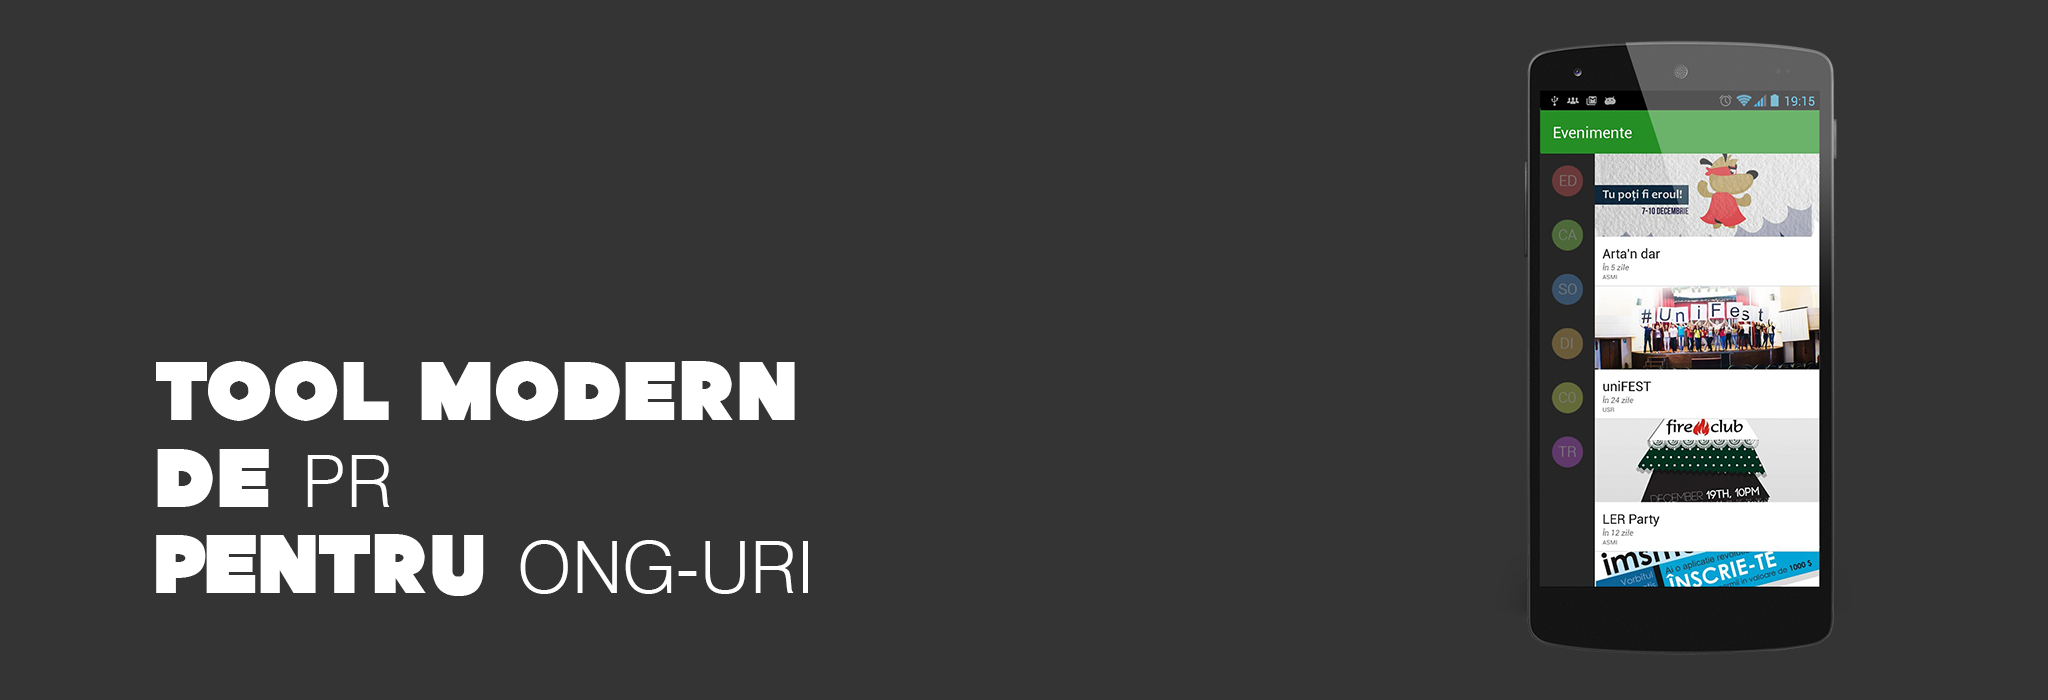
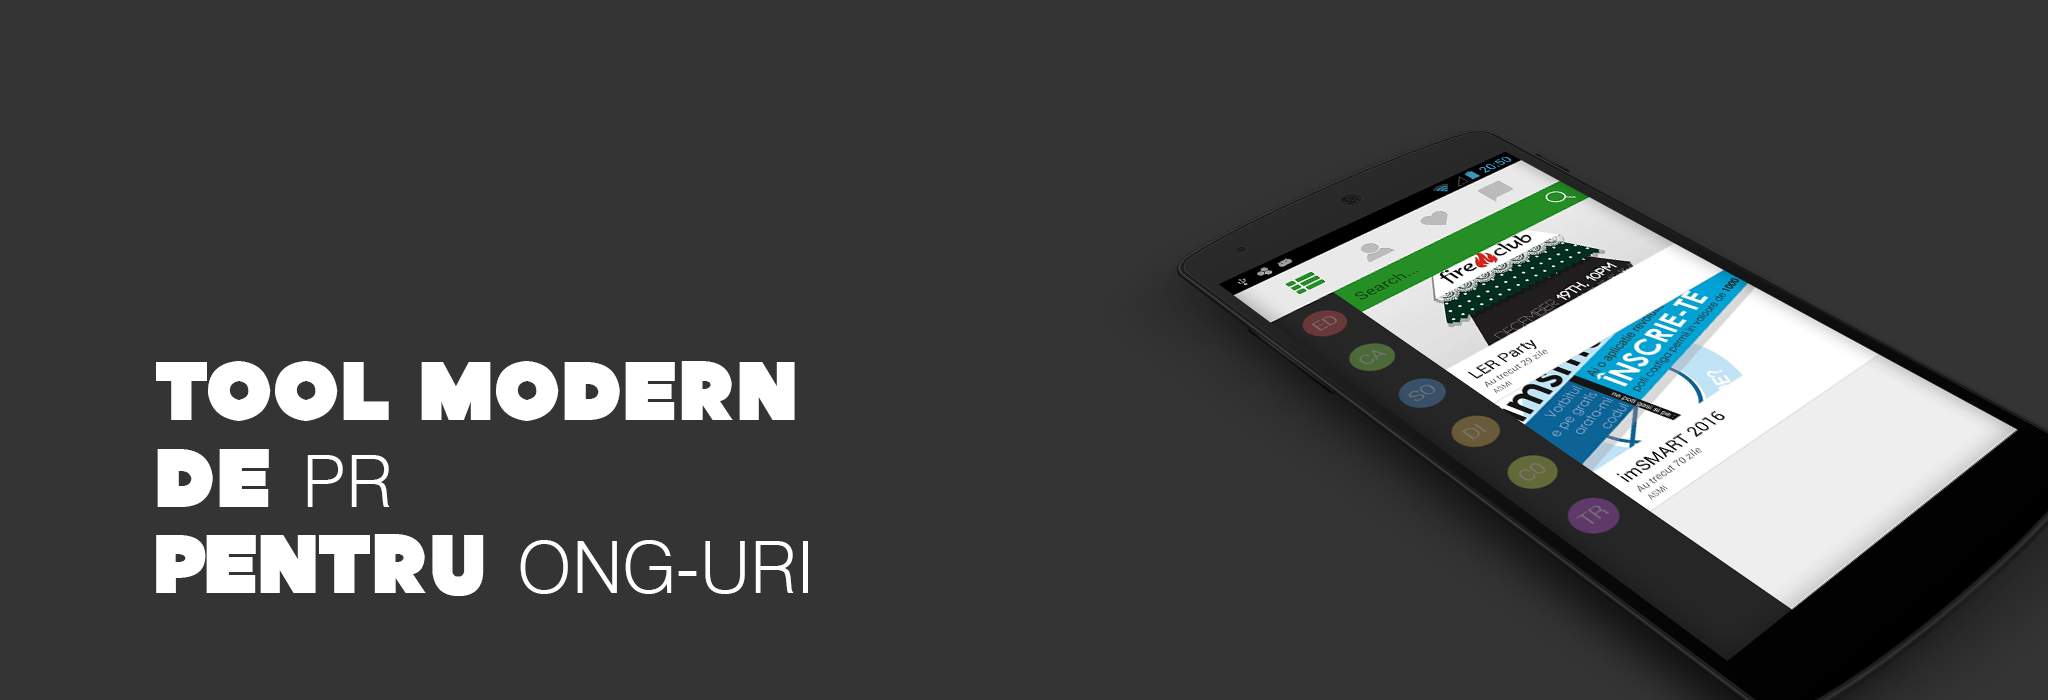
ui changes

Changed region(s): [[0.5938, 0.06, 1.0, 1.0], [0.75, 0.87, 0.7812, 0.93]]

diff --git a/app/views/main.html b/app/views/main.html
@@ -38,75 +38,54 @@
         <a class="active item" ng-click="search_item('')" ng-class="search==''?'active':''">Toate</a>
         <a class="item" ng-repeat="cat in evCategories" ng-click="search_item(cat.categoryName)" ng-class="search==cat.categoryName?'active':''">{{cat.categoryName}}</a>
     </div>
-    <div class="row">
-        <div class="col-md-4 col-sm-6" ng-repeat="event in events | filter: search">
-            <div style="width:100%;height:200px;background-image:url('services/images/{{event.event_id}}.png');background-repeat: no-repeat;background-size: cover; background-position: center;padding:15px;border: 1px solid rgba(34, 36, 38, 0.15);">
-            <img src="images/cat/{{event.categoryName}}.png" height="40" >
+    <div >
+        <div >
+        <div class="ui link cards">
+          <div class="card" ng-repeat="event in events | filter: search" style="border: none;box-shadow: 0px 0px 10px lightgray;">
+            <div dimmed-image class="blurring dimmable image" style="width:100%;height:200px;background-image:url('services/images/{{event.event_id}}.png');background-repeat: no-repeat;background-size: cover; background-position: center;padding:15px;border: 1px solid rgba(34, 36, 38, 0.15);">
+             <div class="ui dimmer">
+                <div class="content">
+                  <div class="center">
+                      <img src="images/cat/{{event.categoryName}}.png"><br>
+                      <p>{{event.categoryName}}</p>
+                    <a href="#/event/{{event.event_id}}" class="ui inverted button">Detalii</a>
+                  </div>
+                </div>
+              </div>
+                
             </div>
-            
-            <div class="ui segment" style="border-top: 2px solid {{event.color}};margin-bottom:10px;margin-top:0px;border-radius:0px;">
-                <a href="#/event/{{event.event_id}}">
-                    <h2 style="height: 60px; font-size:20px">{{event.project_name}} @ {{event.location_name}}</h2></a>
-                <small>Organizat de: {{event.org_name}}</small>
-                <br>
-                <!--<b>{{event.location_name}}</b>
-                <p class="adresa">{{event.address}}</p>-->
-                <div class="ui divider"></div>
-                <div class="row">
-                    <div class="col-xs-6">
-                        <div class="date">
-                            <div class="ui label" ng-if="event.DiffDate>0">
+            <div class="content">
+              <div class="header">{{event.project_name}}</div>
+              <div class="meta">
+                <a>{{event.org_name}}</a>
+              </div>
+              <div class="description">
+                {{event.location_name}}
+              </div>
+            </div>
+            <div class="extra content">
+              <span class="right floated">
+                <div ng-if="event.DiffDate>0">
                                 Incepe in {{event.DiffDate}} zile
                             </div>
                             <div class="ui label" ng-if="event.DiffDate<=0">
                                 In desfasurare
                             </div>
+              </span>
+              <span>
+                
+                <a href={{event.FbPage}} target="_blank" ng-if="event.FbPage"><i class="facebook icon"></i></a>
                            
-                        </div>
-                    </div>
-                    <div class="col-xs-6" style="padding-right: 10px">
-                        <div class="pull-right">
-                            <a class="ui facebook mini icon button" href={{event.FbPage}} target="_blank" ng-if="event.FbPage"><i class="facebook icon"></i></a>
-                           <!-- <div class="ui label">{{event.categoryName}}</div>-->
-                            
-                        </div>
-                        </div>
-                    </div>
-                </div>
+              </span>
             </div>
+          </div>
+        </div>
+        </div>
+        
+        
         </div>
     </div>
 
-
-    <!--<div class="page-header">
-        <h2>ARHIVA</h2>
-    </div>
-    <div class="row">
-        <div class="col-md-4 col-sm-6" ng-repeat="event in past">
-            <div class="ui segment" style="border-top: 2px solid {{event.color}};margin-bottom:10px;">
-                <a href="#/event/{{event.event_id}}">
-                    <h2>{{event.project_name}}</h2></a>
-                <small>Organizat de: {{event.org_name}}</small>
-                <br>
-                <b>{{event.location_name}}</b>
-                <p class="adresa">{{event.address}}</p>
-                <hr>
-                <div class="row">
-                    <div class="col-xs-6">
-                        <div class="date">
-                            {{event.start_date|date:'dd/MM/yyyy'}} - {{event.end_date|date:'dd/MM/yyyy'}}
-                        </div>
-                    </div>
-                    <div class="col-xs-6" style="padding-right: 10px">
-                        <div class="pull-right">
-                            <a class="ui facebook mini icon button" href={{event.FbPage}} target="_blank" ng-if="event.FbPage"><i class="facebook icon"></i></a>
-                            <div class="ui label">{{event.categoryName}}</div>
-                        </div>
-                    </div>
-                </div>
-            </div>
-        </div>
-    </div>-->
 
 </div>
     </div>

diff --git a/app/styles/styles.css b/app/styles/styles.css
@@ -1,0 +1,104 @@
+/*
+A custom Bootstrap 3.2 'Google Plus style' theme
+from http://bootply.com
+
+This CSS code should follow the 'bootstrap.css'
+in your HTML file.
+
+license: MIT
+author: bootply.com
+*/
+
+@import url(http://fonts.googleapis.com/css?family=Roboto:400);
+body {
+  background-color:#e0e0e0;
+  -webkit-font-smoothing: antialiased;
+  font: normal 14px Roboto,arial,sans-serif;
+}
+.navbar-default {background-color:#f4f4f4;margin-top:50px;border-width:0;z-index:5;}
+.navbar-default .navbar-nav > .active > a,.navbar-default .navbar-nav > li:hover > a {border:0 solid #4285f4;border-bottom-width:2px;font-weight:800;background-color:transparent;}
+.navbar-default .dropdown-menu {background-color:#ffffff;}
+.navbar-default .dropdown-menu li > a {padding-left:30px;}
+
+.header {background-color:#ffffff;border-width:0;}
+.header .navbar-collapse {background-color:#ffffff;}
+.btn,.form-control,.panel,.list-group,.well {border-radius:1px;box-shadow:0 0 0;}
+.form-control {border-color:#d7d7d7;}
+.btn-primary {border-color:transparent;}
+.btn-primary,.label-primary,.list-group-item.active, .list-group-item.active:hover, .list-group-item.active:focus {background-color:#4285f4;}
+.btn-plus {background-color:#ffffff;border-width:1px;border-color:#dddddd;box-shadow:1px 1px 0 #999999;border-radius:3px;color:#666666;text-shadow:0 0 1px #bbbbbb;}
+.well,.panel {border-color:#d2d2d2;box-shadow:0 1px 0 #cfcfcf;border-radius:3px;}
+.btn-success,.label-success,.progress-bar-success{background-color:#65b045;}
+.btn-info,.label-info,.progress-bar-info{background-color:#a0c3ff;border-color:#a0c3ff;}
+.btn-danger,.label-danger,.progress-bar-danger{background-color:#dd4b39;}
+.btn-warning,.label-warning,.progress-bar-warning{background-color:#f4b400;color:#444444;}
+
+hr {border-color:#ececec;}
+button {
+ outline: 0;
+}
+textarea {
+ resize: none;
+ outline: 0; 
+}
+.panel .btn i,.btn span{
+ color:#666666;
+}
+.panel .panel-heading {
+ background-color:#ffffff;
+ font-weight:700;
+ font-size:16px;
+ color:#262626;
+ border-color:#ffffff;
+}
+.panel .panel-heading a {
+ font-weight:400;
+ font-size:11px;
+}
+.panel .panel-default {
+ border-color:#cccccc;
+}
+.panel .panel-thumbnail {
+ padding:0;
+}
+.panel .img-circle {
+ width:50px;
+ height:50px;
+}
+.list-group-item:first-child,.list-group-item:last-child {
+ border-radius:0;
+}
+h3,h4,h5 { 
+ border:0 solid #efefef; 
+ border-bottom-width:1px;
+ padding-bottom:10px;
+}
+.modal-dialog {
+ width: 450px;
+}
+.modal-footer {
+ border-width:0;
+}
+.dropdown-menu {
+ background-color:#f4f4f4;
+ border-color:#f0f0f0;
+ border-radius:0;
+ margin-top:-1px;
+}
+/* end theme */
+
+/* template layout*/
+#subnav {
+ position:fixed;
+ width:100%;
+}
+
+@media (max-width: 768px) {
+ #subnav {
+  padding-top: 6px;
+ }
+}
+
+#main {
+ padding-top:120px;
+}

diff --git a/app/views/shared/footer.html b/app/views/shared/footer.html
@@ -22,21 +22,23 @@
 
 <div class="row">
     <div class="col-sm-4 ui segment" style='padding:40px;text-align:center;color:gray;border-radius:0px;margin:0px;border:none;box-shadow:none;'>
-
-        <h2>MOBILITATE</h2>
-        <img src="images/icon/mobile.png" />
+        <i class="mobile icon" style="font-size:70px;"></i>
+        <h2 style="margin-top:0px;">MOBILITATE</h2>
+        
         <h4>Ai oricand la indemana detalii legate de evenimentul la care vrei sa participi.</h4>
     </div>
 
     <div class="col-sm-4 ui segment" style='padding:40px;text-align:center;color:gray;border-radius:0px;margin:0px;border:none;box-shadow:none;'>
-        <h2>COMUNICARE</h2>
-        <img src="images/icon/dialog.png" />
+        <i class="comments outline icon" style="font-size:70px;"></i>
+        <h2 style="margin-top:0px;">COMUNICARE</h2>
+        
         <h4>Poti contribui la imbunatatirea unui proiect prin acordarea feedback-ului tau direct din aplicatie.</h4>
     </div>
 
     <div class="col-sm-4 ui segment" style='padding:40px;text-align:center;color:gray;border-radius:0px;margin:0px;border:none;box-shadow:none;'>
-        <h2>ACCESABILITATE</h2>
-        <img src="images/icon/tag.png" />
+        <i class="smile icon" style="font-size:70px;"></i>
+        <h2 style="margin-top:0px;">ACCESABILITATE</h2>
+        
         <h4>Aplicatia este distribuita gratuit si este conceputa astfel incat sa fie usor de utilizat.
 </h4>
     </div>

diff --git a/app/index.html b/app/index.html
@@ -60,10 +60,11 @@
     <!-- build:js(.) scripts/vendor.js -->
     <!-- bower:js -->
     <script src="bower_components/jquery/dist/jquery.js"></script>
+    <script src="bower_components/Semantic-UI-1.12.3/dist/semantic.min.js"></script>
     <script src="bower_components/Chart.js/Chart.min.js"></script>
     <script src="bower_components/angular/angular.js"></script>
     <script src="bower_components/angular-animate/angular-animate.js"></script>
-    <script src="bower_components/Semantic-UI-1.12.3/dist/semantic.min.js"></script>
+    
     <script src="bower_components/readonly/readonly.js"></script>
     <script src="bower_components/angular-chart.js/dist/angular-chart.js"></script>
     <script src="bower_components/bootstrap/dist/js/bootstrap.js"></script>
@@ -135,6 +136,7 @@
     <script src="scripts/controllers/faq.js"></script>
     <script src="scripts/directives/errsrc.js"></script>
     <script src="scripts/directives/refreshsrc.js"></script>
+    <script src="scripts/directives/dimmedImage.js"></script>
     <script src="scripts/controllers/event/favs.js"></script>
     <!-- endbuild -->
 </body>

diff --git a/app/scripts/directives/dimmedImage.js b/app/scripts/directives/dimmedImage.js
@@ -1,0 +1,18 @@
+'use strict';
+
+/**
+ * @ngdoc directive
+ * @name sniffyApp.directive:errSrc
+ * @description
+ * # errSrc
+ */
+angular.module('sniffyApp')
+  .directive('dimmedImage', function() {
+  return {
+    link: function(scope, element, attrs) {
+        element.dimmer({
+                on: 'hover'
+            });
+    }
+  }
+});

diff --git a/app/services/classes/user.php b/app/services/classes/user.php
@@ -40,23 +40,57 @@
         
         }
         public function register($first,$last,$email,$pass,$rol){
+            try{
+                
+                $sql="SELECT * FROM user WHERE email=?";
+                $query=$this->handler->prepare($sql);
+                $query->execute(array($email));
+                
+                $result=$query->fetchAll(PDO::FETCH_ASSOC);
+                
+                if(count($result)){
+                   echo "Exista";
+                }else{
+                    $sql="INSERT INTO user (first_name,last_name,email,pass,createdAt,rol) VALUES (?,?,?,?,NOW(),?)";
+                    $query=$this->handler->prepare($sql);
+
+                    $query->execute(array($first,$last,$email,$pass,$rol));
+
+                    echo "User INSERTED";
+                }
+            }catch(PDOException $e){
+                echo $e->getMessage();
+                die();
+            }
             
             
-            $sql="INSERT INTO user (first_name,last_name,email,pass,createdAt,rol) VALUES (?,?,?,?,NOW(),?)";
-            $query=$this->handler->prepare($sql);
-            
-            $query->execute(array($first,$last,$email,$pass,$rol));
-            
-            echo "User INSERTED";
         }
         
         public function registerMobile($first,$last,$email,$pass){
-            $sql="INSERT INTO user (first_name,last_name,email,pass,createdAt,rol) VALUES (?,?,?,?,NOW(),'2')";
-            $query=$this->handler->prepare($sql);
             
-            $query->execute(array($first,$last,$email,$pass));
+            try{
+                
+                $sql="SELECT * FROM user WHERE email=?";
+                $query=$this->handler->prepare($sql);
+                $query->execute(array($email));
+                
+                $result=$query->fetchAll(PDO::FETCH_ASSOC);
+                
+                if(count($result)){
+                   echo "Exista";
+                }else{
+                    $sql="INSERT INTO user (first_name,last_name,email,pass,createdAt,rol) VALUES (?,?,?,?,NOW(),'2')";
+                    $query=$this->handler->prepare($sql);
+
+                    $query->execute(array($first,$last,$email,$pass));
+
+                    echo "mobile_user_success";
+                }
+            }catch(PDOException $e){
+                echo $e->getMessage();
+                die();
+            }
             
-            echo "mobile_user_success";
         }
         
         public function registerMobileAndroid($first,$last,$email,$pass,$gcm_id){
